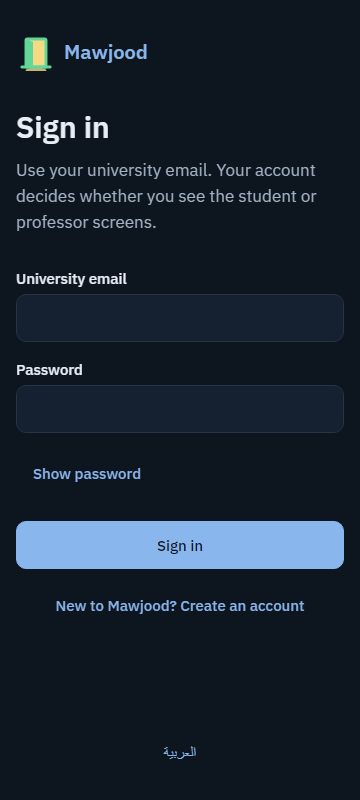
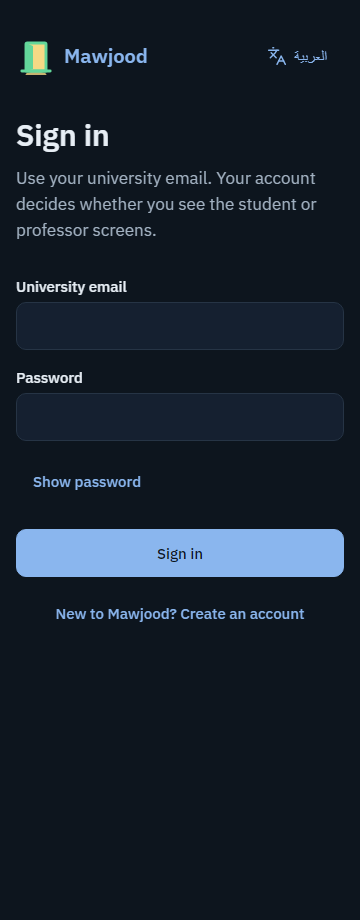
feat(app): the app opens on sign-in, with the language switch in its top corner
Owner decision 2026-11-10: no language screen first. The app opens on
sign-in in the device language; a button in the top corner of sign-in
(the languages icon and the other language's name, "العربية" / "English",
spoken as "Change the language to ...") switches it in one tap. The
first-launch language screen, its strings and the old switch at the bottom
of sign-in are removed; Profile and Account keep the language setting.

Tests: Jest covers the corner button in both languages; p3c starts on
sign-in and checks the button sits at the top. DESIGN.md 7.1 and
Section 11, CLAUDE.md, README and the phone checklist updated.

diff --git a/app/src/features/auth/auth-screens.test.tsx b/app/src/features/auth/auth-screens.test.tsx
@@ -1,8 +1,7 @@
-/** First-launch language choice and sign-in (DESIGN.md 7.1). */
+/** Sign-in, the screen the app opens on, with its language switch (DESIGN.md 7.1). */
 import { fireEvent, screen, waitFor } from '@testing-library/react-native';
 
 import { ApiError } from '@/api/client';
-import LanguageScreen from '@/app/language';
 import SignInScreen from '@/app/sign-in';
 import { switchLanguage } from '@/i18n';
 import { renderWithProviders } from '@/test-utils';
@@ -29,21 +28,26 @@ beforeEach(() => {
   (switchLanguage as jest.Mock).mockClear();
 });
 
-describe('language screen', () => {
-  it('preselects the device language without applying it', async () => {
-    await renderWithProviders(<LanguageScreen />, 'en');
-    expect(screen.getByRole('radio', { name: 'العربية' })).toBeChecked();
-    expect(screen.getByRole('radio', { name: 'English' })).not.toBeChecked();
-    // The rest of the screen speaks the preselected language; nothing has been saved yet.
-    expect(screen.getByRole('button', { name: 'متابعة' })).toBeTruthy();
-    expect(switchLanguage).not.toHaveBeenCalled();
+describe('language switch on sign-in', () => {
+  it('sits at the top, before the title, and names the other language', async () => {
+    await renderWithProviders(<SignInScreen />, 'en');
+    const button = screen.getByRole('button', { name: 'Change the language to العربية' });
+    expect(button).toHaveTextContent('العربية');
+    const order = screen
+      .getAllByRole(/button|header/)
+      .map((el) => el.props.accessibilityLabel ?? '');
+    expect(order.indexOf('Change the language to العربية')).toBe(0);
   });
 
-  it('applies the chosen language on Continue, then moves on', async () => {
-    await renderWithProviders(<LanguageScreen />, 'en');
-    await fireEvent.press(screen.getByRole('radio', { name: 'English' }));
-    await fireEvent.press(screen.getByRole('button', { name: 'Continue' }));
-    await waitFor(() => expect(mockReplace).toHaveBeenCalledWith('/'));
+  it('switches to Arabic in one tap', async () => {
+    await renderWithProviders(<SignInScreen />, 'en');
+    await fireEvent.press(screen.getByRole('button', { name: 'Change the language to العربية' }));
+    expect(switchLanguage).toHaveBeenCalledWith('ar');
+  });
+
+  it('in Arabic, offers English', async () => {
+    await renderWithProviders(<SignInScreen />, 'ar');
+    await fireEvent.press(screen.getByRole('button', { name: 'غيّر اللغة إلى English' }));
     expect(switchLanguage).toHaveBeenCalledWith('en');
   });
 });

diff --git a/app/src/app/sign-in.tsx b/app/src/app/sign-in.tsx
@@ -16,6 +16,7 @@ import {
 import { Redirect, router } from 'expo-router';
 import { useTranslation } from 'react-i18next';
 import { useSafeAreaInsets } from 'react-native-safe-area-context';
+import Languages from 'lucide-react-native/icons/languages';
 
 import { useColumn } from '@/lib/layout';
 import { useAuth } from '@/auth/AuthProvider';
@@ -75,11 +76,23 @@ export default function SignInScreen() {
           { paddingTop: insets.top + space.xl, paddingBottom: insets.bottom + space.lg },
         ]}
       >
-        <View style={styles.brand}>
-          <Door status="in_office" size={40} />
-          <Text variant="title" color="primary">
-            {t('app.name')}
-          </Text>
+        {/* The app opens here; the language switch sits in the top corner (owner, 2026-11-10). */}
+        <View style={styles.top}>
+          <View style={styles.brand}>
+            <Door status="in_office" size={40} />
+            <Text variant="title" color="primary">
+              {t('app.name')}
+            </Text>
+          </View>
+          <Button
+            variant="quiet"
+            label={t(`settings.language_${otherLanguage}`)}
+            accessibilityLabel={t('signin.language', {
+              language: t(`settings.language_${otherLanguage}`),
+            })}
+            icon={<Languages color={colors.primary} size={20} strokeWidth={1.75} />}
+            onPress={() => switchLanguage(otherLanguage)}
+          />
         </View>
 
         <View style={styles.intro}>
@@ -142,14 +155,6 @@ export default function SignInScreen() {
             onPress={() => router.push('/sign-up')}
           />
         </View>
-
-        <View style={styles.language}>
-          <Button
-            variant="quiet"
-            label={t(`settings.language_${otherLanguage}`)}
-            onPress={() => switchLanguage(otherLanguage)}
-          />
-        </View>
       </ScrollView>
     </KeyboardAvoidingView>
   );
@@ -158,9 +163,14 @@ export default function SignInScreen() {
 const styles = StyleSheet.create({
   fill: { flex: 1 },
   page: { flexGrow: 1, paddingHorizontal: space.md, gap: space.xl },
+  top: {
+    flexDirection: 'row',
+    alignItems: 'center',
+    justifyContent: 'space-between',
+    gap: space.sm,
+  },
   brand: { flexDirection: 'row', alignItems: 'center', gap: space.xs },
   intro: { gap: space.xs },
   form: { gap: space.sm },
   reveal: { alignItems: 'flex-start' },
-  language: { alignItems: 'center', marginTop: 'auto' },
 });

diff --git a/app/e2e/p3c.spec.ts b/app/e2e/p3c.spec.ts
@@ -16,7 +16,6 @@ const SAAD = 's.almutairi@university.example';
 
 const strings = {
   ar: {
-    continue: 'متابعة',
     email: 'البريد الجامعي',
     password: 'كلمة المرور',
     signIn: 'تسجيل الدخول',
@@ -24,7 +23,6 @@ const strings = {
     khalid: /^أ\.د\. خالد العتيبي، في المكتب \(غير مؤكد\)/,
   },
   en: {
-    continue: 'Continue',
     email: 'University email',
     password: 'Password',
     signIn: 'Sign in',
@@ -66,16 +64,19 @@ for (const [language, theme] of [
   ['ar', 'light'],
   ['en', 'dark'],
 ] as const) {
-  test(`first launch in ${language}-${theme}: language, sign-in, home`, async ({ page }) => {
+  test(`first launch in ${language}-${theme}: sign-in, home`, async ({ page }) => {
     const s = strings[language];
     await start(page, theme);
     await page.goto('/');
-    await expect(page).toHaveURL(/\/language$/);
-    await page.getByRole('radio', { name: language === 'ar' ? 'العربية' : 'English' }).click();
-    await shoot(page, `${language}-${theme}-1-language`);
-    await page.getByRole('button', { name: s.continue }).click();
-
+    // The app opens on sign-in in the browser's language (English here); the language switch
+    // sits in the top corner (owner decision 2026-11-10).
     await expect(page).toHaveURL(/\/sign-in$/);
+    const toArabic = page.getByRole('button', { name: 'Change the language to العربية' });
+    expect((await toArabic.boundingBox())!.y).toBeLessThan(120);
+    if (language === 'ar') {
+      await toArabic.click();
+      await expect(page.getByRole('button', { name: 'غيّر اللغة إلى English' })).toBeVisible();
+    }
     expect(await page.evaluate(() => document.documentElement.dir)).toBe(
       language === 'ar' ? 'rtl' : 'ltr',
     );

diff --git a/app/src/i18n/index.ts b/app/src/i18n/index.ts
@@ -20,13 +20,6 @@ import en from './en.json';
 export const resources = { ar: { translation: ar }, en: { translation: en } } as const;
 
 const i18n = createInstance();
-/** False until the user has picked a language once (first launch shows the language screen). */
-let languageChosen = false;
-
-export function isLanguageChosen(): boolean {
-  return languageChosen;
-}
-
 export function deviceLanguage(): Language {
   return getLocales()[0]?.languageCode === 'ar' ? 'ar' : 'en';
 }
@@ -41,7 +34,6 @@ function applyWebDirection(language: Language) {
 /** Load the saved language (or the device's), and line native direction up with it. */
 export async function initI18n(): Promise<Language> {
   const stored = await readPreference(preferenceKeys.language);
-  languageChosen = stored === 'ar' || stored === 'en';
   const language: Language = stored === 'ar' || stored === 'en' ? stored : deviceLanguage();
   await i18n.use(initReactI18next).init({
     resources,
@@ -76,7 +68,6 @@ export async function initI18n(): Promise<Language> {
  */
 export async function switchLanguage(language: Language): Promise<void> {
   await writePreference(preferenceKeys.language, language);
-  languageChosen = true;
   await i18n.changeLanguage(language);
   applyWebDirection(language);
   if (Platform.OS !== 'web' && I18nManager.isRTL !== (language === 'ar')) {

diff --git a/app/src/app/index.tsx b/app/src/app/index.tsx
@@ -1,12 +1,13 @@
 import { Redirect } from 'expo-router';
 
 import { useAuth } from '@/auth/AuthProvider';
-import { isLanguageChosen } from '@/i18n';
 
-/** Where the app opens: language (first launch), then sign-in, then the home for the role. */
+/**
+ * Where the app opens: sign-in (in the device language until one is chosen there), then the
+ * home for the role.
+ */
 export default function Index() {
   const { state } = useAuth();
-  if (!isLanguageChosen()) return <Redirect href="/language" />;
   if (state.status !== 'signedIn') return <Redirect href="/sign-in" />;
   const home = {
     student: '/home',

diff --git a/app/e2e/sweep.spec.ts b/app/e2e/sweep.spec.ts
@@ -145,10 +145,10 @@ for (const language of ['en', 'ar'] as const) {
   });
 }
 
-test('sign-up and language screens open cleanly', async ({ page }) => {
+test('sign-in and sign-up screens open cleanly', async ({ page }) => {
   const problems = watch(page);
   await page.setViewportSize({ width: 360, height: 800 });
-  await page.goto('/language');
+  await page.goto('/sign-in');
   await page.waitForLoadState('networkidle');
   await page.goto('/sign-up');
   await page.waitForLoadState('networkidle');

diff --git a/CLAUDE.md b/CLAUDE.md
@@ -70,7 +70,7 @@ P6: queries.sql, views, trigger demo, docs, README, test plan, final design QA.
 12. Commands (keep this section updated)
 Backend dev: cd backend && python3.12 -m venv .venv && .venv/bin/pip install -e ".[dev]" && .venv/bin/uvicorn app.main:app --host 0.0.0.0 --port 8000 --reload   (API docs at /docs; needs JWT_SECRET in .env)
 Public link (anyone, any network, free; docs/run-on-phone.md, Section 3b): python3 scripts/public_link.py   (one command: rebuilds app/dist only if the app changed, --build forces it; reuses or starts the API; opens the tunnel over HTTP/2 and prints the link; --local without a link). By hand: cd app && npm run export:web, start the API (it serves the app at http://localhost:8000), then cloudflared tunnel --protocol http2 --url http://localhost:8000 and share the https://….trycloudflare.com address it prints (changes on every start; once: winget install --id Cloudflare.cloudflared)
-Client dev: cd app && npm install && npx expo start   (scan the QR code with Expo Go; needs Node 22 LTS; first launch asks for the language, then sign-in)
+Client dev: cd app && npm install && npx expo start   (scan the QR code with Expo Go; needs Node 22 LTS; the app opens on sign-in, language button in its top corner)
 Phones in the browser (any iPhone or Android, no Expo Go): start the API, then cd app && npm run phones (export + serve on port 8081); open http://<computer Wi-Fi address>:8081 on the phone, optionally Add to Home Screen (docs/run-on-phone.md, Section 3a). On Windows use py instead of python3, and PowerShell 5.1 has no &&: run the two commands one after the other.
 Client checks: cd app && npm run typecheck && npm run lint && npm run format && npm test   (Jest + RNTL, includes the WCAG token check)
 Web build + Playwright: python3 scripts/reset_db.py, start the API with DEMO_NOW=2026-10-05T07:00:00Z (and LOGIN_ATTEMPTS_PER_MINUTE=100 SIGNUPS_PER_MINUTE=100 for repeated runs), cd app && npm run export:web && npx expo serve --port 8081, then in another terminal npm run screenshots   (tests run one at a time because they share the seeded database; flows.spec reseeds when done; sweep.spec fails on any console error or failed API call; styleguide at 360/768/1280, P3c, P4, P5 and sign-up at 360, final QA at 320, into docs/screenshots/; first time: npx playwright install chromium, or CHROMIUM_PATH=<chrome binary>)
@@ -104,7 +104,7 @@ Arabic search normalization (diacritics, alef forms, teh marbuta, alef maksura) 
 Approved backend dependencies: uvicorn, argon2-cffi, PyJWT, pydantic-settings, PyMySQL[rsa] (approved 2026-10-05), pytest, httpx (tests), ruff. Client dependencies: the list in docs/plan.md (approved 2026-10-05), each installed in the phase that first uses it.
 Client (P3b): Expo SDK 58 (upgraded from 57 on 2026-11-06: React Native 0.88, React 19.3, Reanimated 4.7, Jest 30; Jest uses Reanimated's resolver react-native-reanimated/jest/resolver.js; text-field refs are typed TextInputInstance), routes in app/src/app, @/ = app/src. Reanimated's plugin comes from babel-preset-expo (no babel.config.js). The RTL switch reloads with reloadAppAsync() from expo (no expo-updates). Lint forbids raw hex colours outside src/theme and whole-package lucide imports. In this sandbox, Expo CLI commands need EXPO_OFFLINE=1 (api.expo.dev is blocked). Web bundle: 495 KB gzipped (no longer a target, see Product focus below).
 Product focus (2026-10-05, owner: "I just want the phone version"; revised 2026-11-10, see the public-link and desktop entries): the browser version is now the product, for anyone; the phone app in Expo Go keeps working. No web bundle-size target.
-Client (P3c): first launch shows the language screen (device language preselected, applied on Continue); then sign-in; the start route sends students to /home and professors and admins to /staff (a notice until P4). Student tabs: Home and Profile (Search, Appointments, Messages arrive in P4/P5, no placeholders). Access token in memory; refresh token in expo-secure-store (native) or the httpOnly cookie (web); a saved session opens at once with the cached profile (AsyncStorage key mawjood.user, public fields only) and is confirmed in the background. Server data: TanStack Query, polling every 20 s, paused offline (NetInfo), last known data persisted to AsyncStorage for 24 h (not search results) and deleted on sign-out. Home search shows results inline and can pin; the department list shows all professors of the student's department, pinned ones marked. Tab labels scale to 130% at most (system tab bars do the same); everything else to 200%. API: optional DEMO_NOW freezes the clock for screenshots and demos.
+Client (P3c): the app opens on sign-in in the device language, with a language button in the top corner (owner decision 2026-11-10 replaced the first-launch language screen); the start route sends students to /home and professors and admins to /staff (a notice until P4). Student tabs: Home and Profile (Search, Appointments, Messages arrive in P4/P5, no placeholders). Access token in memory; refresh token in expo-secure-store (native) or the httpOnly cookie (web); a saved session opens at once with the cached profile (AsyncStorage key mawjood.user, public fields only) and is confirmed in the background. Server data: TanStack Query, polling every 20 s, paused offline (NetInfo), last known data persisted to AsyncStorage for 24 h (not search results) and deleted on sign-out. Home search shows results inline and can pin; the department list shows all professors of the student's department, pinned ones marked. Tab labels scale to 130% at most (system tab bars do the same); everything else to 200%. API: optional DEMO_NOW freezes the clock for screenshots and demos.
 Client (P4): routes: students (student)/home, search, appointments, profile and professors/[id] (profile + booking sheet); professors staff/status, requests, schedule, account; admins admin/overview, campus (departments and offices behind one switch, ?view=offices), professors, students, account (since 2026-10-06; see the admin entry below). The start route sends each role to its first tab. Booking: Book, day (defaults to today), time (start and length), confirm = at most 4 steps; unavailable times stay visible, are named "09:00, unavailable" and explain themselves; an error keeps the selection (only a time someone else just took is unselected). Cancel and delete confirm in a bottom sheet (React Native's Alert does nothing on the web build). Status presets: "Back in 15/30 min" = away until now + 15/30 min; "In office until HH:MM" = until the end of the current or next office-hours block today; "Away for today" = away with no return time. Admin forms check the same patterns as the API before sending. Absolute positions and text alignment go through app/src/lib/direction.ts (React Native mirrors start/end and left/right in RTL on phones; the web build does not).
 Backend fix (P4): optional text fields (booking note, status note, block label) now accept an explicit null; before, null hit the max_length check and returned 500.
 API decisions (P5): /api/v1/conversations (list by latest activity, open-or-reopen with professor_id or student_id, messages newest first, send, mark read) and /api/v1/notifications (list, unread counts for the badges, mark read). Chat eligibility is checked when a conversation opens and on every message; non-participants get 404, admins 403. Sending is limited to 20 messages per minute per user (MESSAGES_PER_MINUTE). A new message updates the recipient's one unread "new message" notification for that conversation (its time moves forward) instead of adding another. Reading a conversation marks its messages and that notification read. Notifications carry the other person and, for appointments, the start time; the client writes the sentence.

diff --git a/docs/phone-checklist.md b/docs/phone-checklist.md
@@ -17,7 +17,7 @@ Run on at least one Android phone and one iPhone if you can.
 |---|---|---|---|---|---|
 | 1 | Opens in Expo Go | Scan the QR code from `npx expo start` | The splash shows a blue door on a light background (dark background in dark mode), then the styleguide in IBM Plex. No flash of a system font or a white screen in dark mode | needs a real phone | needs a real phone |
 | 2 | Backend reachable over Wi-Fi | Look at the **Server connection** card at the top | A green check, **Reachable**, and an address like `http://192.168.x.x:8000/api/v1`. If you see **Not reachable**, follow run-on-phone.md Section 4 | needs a real phone | needs a real phone |
-| 3 | RTL switch with reload | On first launch with the phone in Arabic, the page should be right-to-left. Tap **English** in Language: a short restart, then left-to-right. Tap **العربية**: restart, right-to-left again. Then close Expo Go fully and reopen | The direction always matches the language, including after the cold restart. The doors open towards the reading direction (hinge on the start side) | needs a real phone | needs a real phone |
+| 3 | RTL switch with reload | On first launch with the phone in Arabic, sign-in should be right-to-left. Tap **English** in the top corner of sign-in (or in Profile, Language): a short restart, then left-to-right. Tap **العربية**: restart, right-to-left again. Then close Expo Go fully and reopen | The direction always matches the language, including after the cold restart. The doors open towards the reading direction (hinge on the start side) | needs a real phone | needs a real phone |
 | 4 | Haptics | In **Doors**, tap each status chip. Then tap **Show the toast** | A light tap on each status change; a "success" pattern with the toast. Nothing if the system has haptics off | needs a real phone | needs a real phone |
 | 5 | Screen reader | Turn on TalkBack (Android) or VoiceOver (iOS) and swipe through the page | Every element is read with its name and role:<br>- headings read as headings;<br>- the large door reads "Status: In office";<br>- chips read as selected or not selected;<br>- each input reads its label and helper;<br>- the toast is announced when shown | needs a real phone | needs a real phone |
 | 6 | Bottom sheet with a screen reader | With the screen reader on, tap **Open the sheet** and swipe | Focus stays inside the sheet (iOS: `accessibilityViewIsModal`); the dialog's title is read; **Close** is reachable | needs a real phone | needs a real phone |
@@ -35,8 +35,8 @@ Start from a fresh install of the app's data: in Expo Go, long-press the project
 
 | # | Check | Steps | Expected | Android | iOS |
 |---|---|---|---|---|---|
-| 14 | Language first | Open the app for the first time with the phone in Arabic, then again (after clearing data) in English | The language screen comes first, the phone's language is preselected but nothing changes until **Continue** | needs a real phone | needs a real phone |
-| 15 | Direction after the choice | On the language screen pick the language that is not the phone's and tap Continue | One short restart, then sign-in in the chosen direction | needs a real phone | needs a real phone |
+| 14 | Sign-in first | Open the app for the first time with the phone in Arabic, then again (after clearing data) in English | Sign-in comes first, in the phone's language, with the other language as a button in the top corner | needs a real phone | needs a real phone |
+| 15 | Direction after the choice | On sign-in tap the language button in the top corner | One short restart, then sign-in in the chosen direction | needs a real phone | needs a real phone |
 | 16 | Keyboard on sign-in | Tap the email field, type, press the return key; on the password field press return | The fields stay above the keyboard; return moves to the password, then signs in; the email keyboard has @ | needs a real phone | needs a real phone |
 | 17 | Password managers | Tap the email field | iOS offers saved passwords (username/password content types); Android autofill offers saved accounts | needs a real phone | needs a real phone |
 | 18 | Stay signed in (secure storage) | Sign in, close Expo Go fully, reopen | Home opens straight away, signed in, without the sign-in screen | needs a real phone | needs a real phone |

diff --git a/docs/DESIGN.md b/docs/DESIGN.md
@@ -102,7 +102,7 @@ Keyboard: an input never sits under the on-screen keyboard (KeyboardAvoidingView
 Each screen defines its purpose, key content, primary action, and loading, empty, error, and offline states.
 
 7.1 Language and sign-in
-First launch asks for language (العربية / English) before anything else; the device language (expo-localization) is preselected, never auto-applied.
+The app opens on sign-in in the device language (expo-localization); a language button in the top corner of sign-in switches to the other language in one tap (revised 2026-11-10, owner decision; there is no separate language screen). Profile and Account keep the language setting.
 Changing language switches layout direction with I18nManager.forceRTL and then reloads the app cleanly (expo-updates reloadAsync) after a one-line explanation, returning the user to the same screen; on the web build the document dir attribute changes without a reload.
 Sign in with a university email. The role comes from the account, not from a user choice.
 7.2 Student home ("Now")
@@ -246,6 +246,8 @@ Append entries as: date, decision, reason.
 2026-11-10, A selected list row has a plate background, a primary bar at the start edge and the screen-reader "selected" state, Reason: the open item must be findable in the list without relying on colour.
 2026-11-10, On desktop the profile's Book, Message and Pin sit in a row under the nameplate instead of a sticky bottom bar, Reason: thumb reach does not apply to a mouse, and a bar across a wide pane separates the actions from the professor they belong to.
 2026-11-10, My status shows the status in the browser tab title ("Away | Mawjood"), Reason: Section 7.8, professors keep the tab open; the favicon is unchanged because one icon per status would add four assets for a small gain.
+
+2026-11-10, No language screen: the app opens on sign-in in the device language, with a language button (icon plus the other language's name, "العربية" / "English") in the top corner of sign-in; its accessible name is "Change the language to …", Reason: owner decision ("make the first page sign-in, with the language choice as a button in the top corner"); one screen fewer before the student reaches a status, and the switch is still one tap.
 
 12. Quality checklist (every screen)
  Answers its main question within 3 seconds of looking

diff --git a/README.md b/README.md
@@ -67,7 +67,7 @@ npx expo start        # scan the QR code with Expo Go (Android) or the Camera ap
 ```
 **No Expo Go (any iPhone or Android):** start the API, run `npm run phones` in `app`, and open `http://<computer Wi-Fi address>:8081` in the phone's browser; *Add to Home Screen* makes it open full screen like an app ([docs/run-on-phone.md](docs/run-on-phone.md), Section 3a).
 
-The app finds the backend on the same computer by itself (details and fixes for university Wi-Fi: [docs/run-on-phone.md](docs/run-on-phone.md), Sections 3-4). The first launch asks for the language, then you sign in with a demo account (below). What each role gets:
+The app finds the backend on the same computer by itself (details and fixes for university Wi-Fi: [docs/run-on-phone.md](docs/run-on-phone.md), Sections 3-4). The app opens on sign-in in your device's language (the button in the top corner switches it); sign in with a demo account (below). What each role gets:
 - **Students:**
   - Home: pinned professors with their live door status, the next appointment and their department; refreshed every 20 seconds and still readable offline;
   - Search, professor profiles and booking in 4 steps, inside each professor's booking times;

diff --git a/docs/plan.md b/docs/plan.md
@@ -170,6 +170,7 @@ Revised 2026-10-05 for two changes: the client is an Expo (React Native) app, an
 ### After P6: browser version for everyone and desktop layouts (owner requests, 2026-11-10)
 - **Public link:** the API serves the browser version; a free Cloudflare quick tunnel publishes it (docs/run-on-phone.md, Section 3b; one command: scripts/public_link.py). Demo passwords are refused over the link.
 - **QA on Windows:** specs use `py`, close the browser contexts they open, and fill the visible field; the full suite passed 50 of 51 (the one failure was a Windows file lock on a screenshot). With the system Chrome some screenshots came out blank, so Playwright's own Chromium is used.
+- **No language screen:** the app opens on sign-in; a language button sits in its top corner (owner decision). The first-launch language screen of P3c is removed.
 - **Desktop and tablet layouts:** docs/desktop-plan.md (approved), checked by e2e/desktop.spec.ts at 1280 and 768 px in Arabic light and English dark, plus no sideways scrolling at 320, 768, 1024 and 1280 px.
 
 ## Checks that need a real phone

diff --git a/docs/run-on-phone.md b/docs/run-on-phone.md
@@ -189,7 +189,7 @@ Demo accounts (Section 1) share a published password, the admin included, so the
 4. Scan the QR code:
    - **Android:** with the Expo Go app;
    - **iPhone:** with the Camera app. If Expo Go says you are signed in to Expo Go but not to Expo CLI, sign out in Expo Go (account icon, Log out) or run `npx expo login` with the same account on the computer. Also allow **Local Network** for Expo Go in the iPhone's Settings.
-5. The app opens in Expo Go: first the language screen, then sign-in. Use a demo account (Section 1, *Demo accounts*); students land on Home. If sign-in says it can't reach the server, see Section 4.
+5. The app opens in Expo Go on sign-in, in the phone's language (the button in the top corner switches it). Use a demo account (Section 1, *Demo accounts*); students land on Home. If sign-in says it can't reach the server, see Section 4.
 6. Press `w` in the terminal to open the web build in a browser too.
 
 What to try on the phone, step by step: [phone-checklist.md](phone-checklist.md).
